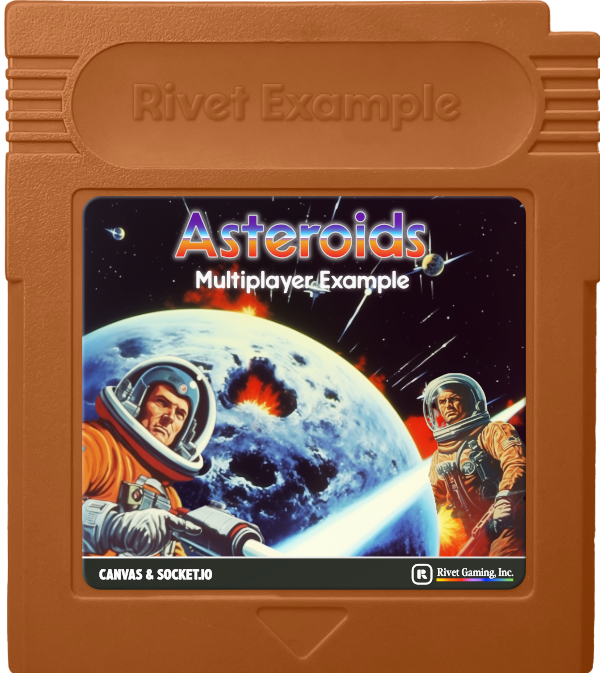
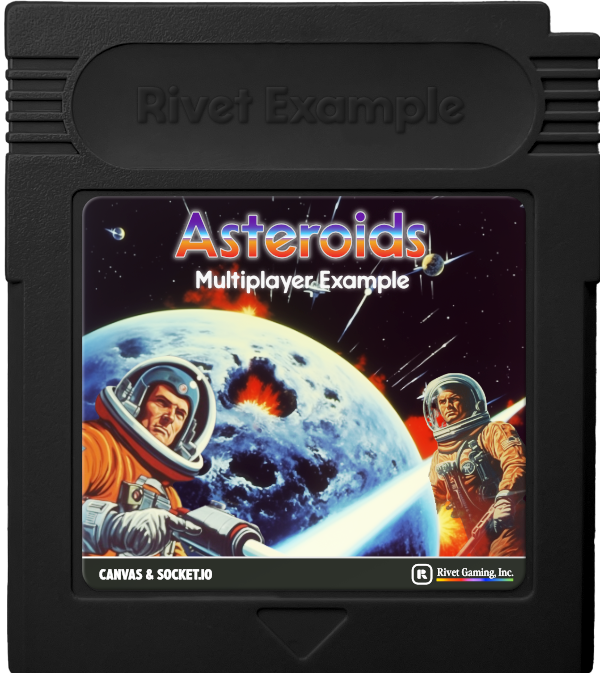
New Cartridge Images (#174)

diff --git a/src/pages/index.jsx b/src/pages/index.jsx
@@ -134,9 +134,10 @@ import imgAstro from '@/images/examples/astro.png';
 import imgBomber from '@/images/examples/bomber.png';
 import imgCli from '@/images/examples/cli.png';
 import imgCol from '@/images/examples/col.png';
-import imgCore from '@/images/examples/core.png';
+import imgProp from '@/images/examples/prop.png';
 import imgUnityTanks from '@/images/examples/unitytanks.png';
 import imgWeb from '@/images/examples/web.png';
+import imgJS from '@/images/examples/JS.png';
 
 import imgStepsGodot from '@/images/engine-integration/godot.png';
 import imgStepsUnity from '@/images/engine-integration/unity.png';
@@ -235,24 +236,25 @@ let TEMPLATES = [
     subtext: 'Unity & Fish-Net'
   },
   {
-    href: 'https://github.com/rivet-gg/examples/tree/main/html5/colyseus',
-    screenshot: imgCol,
-    subtext: 'Colyseus Template'
+    href: 'https://github.com/rivet-gg/examples/tree/main/rust/pixelprop',
+    screenshot: imgProp,
+    subtext: 'Rust Prop Hunt'
+
   },
   {
-    href: 'https://github.com/rivet-gg/examples/tree/main/html5/webrtc',
+    href: 'https://github.com/rivet-gg/examples/tree/main/javascript/webrtc',
     screenshot: imgWeb,
     subtext: 'WebRTC'
   },
   {
-    href: 'https://github.com/rivet-gg/examples/tree/main/rust/cli-websocket',
-    screenshot: imgCli,
-    subtext: 'CLI WebSocket'
+    href: 'https://github.com/rivet-gg/examples/tree/main/javascript/sandbox',
+    screenshot: imgJS,
+    subtext: 'JS Sandbox'
   },
   {
-    href: 'https://github.com/rivet-gg/examples/tree/main/c/coredump',
-    screenshot: imgCore,
-    subtext: 'Core Dump'
+    href: 'https://github.com/rivet-gg/examples/tree/main/javascript/colyseus',
+    screenshot: imgCol,
+    subtext: 'Colyseus Template'
   }
 ];
 
